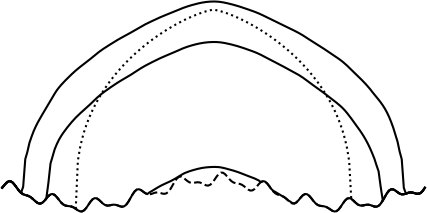
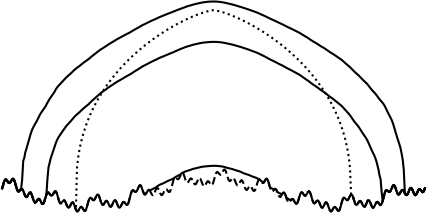
figure showing cases/states in numerical experiment

diff --git a/paper/estimate.tex b/paper/estimate.tex
@@ -649,9 +649,9 @@ If, for all $r,s$ in some $\cK$, the set of ratios $\{\rho(r,s)\}$ were bounded 
 The domain for our experiment is the 1D interval $\Omega=(-L,L)$, $L=100$ km, with $\cX = W_b^{1,2}(\Omega)$.  Three bed profiles  (Figure \ref{fig:cases}) were considered, \emph{flat} with $b=0$, \emph{smooth} with a superposition of several wavelengths down to 10 km, and \emph{rough} with an additional 4 km wavelength mode.  The beds generate corresponding constraint sets $\cK_i \subset \cX$, $i=1,2,3$.
 
 \begin{figure}[ht]
-\mbox{\includegraphics[width=0.325\textwidth]{figs/snapsrough.png} \, \includegraphics[width=0.325\textwidth]{figs/snapsrough.png} \, \includegraphics[width=0.325\textwidth]{figs/snapsrough.png}}
+\mbox{\includegraphics[width=0.31\textwidth]{figs/snapsflat.png} \, \includegraphics[width=0.335\textwidth]{figs/snapssmooth.png} \, \includegraphics[width=0.335\textwidth]{figs/snapsrough.png}}
 
-\caption{Three bed cases (left-to-right: FIXME flat, smooth, rough) define constraint sets $\cK_i\subset\cX$ in the numerical experiment.  Three time-dependent runs of $T=200$ years, starting from the same initial state (dotted), but using different constant values of the SMB (see text), generated many admissible states in a given $\cK_i$.  Later states ($t=170$ years) in these runs are shown (solid).  Ratios \eqref{eq:Phiratio} were then computed for 1000 sample pairs $r,s$ from each set $\cK_i$.}
+\caption{Three bed cases (left-to-right: flat, smooth, rough) define constraint sets $\cK_i\subset\cX$ in the numerical experiment.  Three time-dependent runs of $T=200$ years, starting from the same initial state (dotted), but using different constant values of the SMB (see text), generated many admissible states in a given $\cK_i$.  Later states ($t=170$ years) in these runs are shown (solid).  Ratios \eqref{eq:Phiratio} were then computed for 1000 sample pairs $r,s$ from each set $\cK_i$.}
 \label{fig:cases}
 \end{figure}
 
